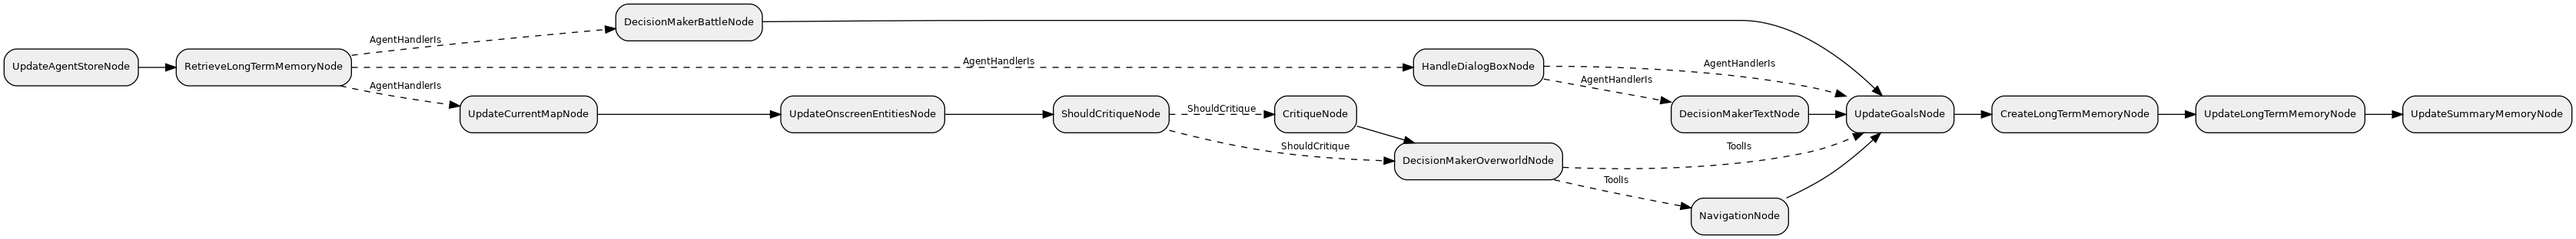
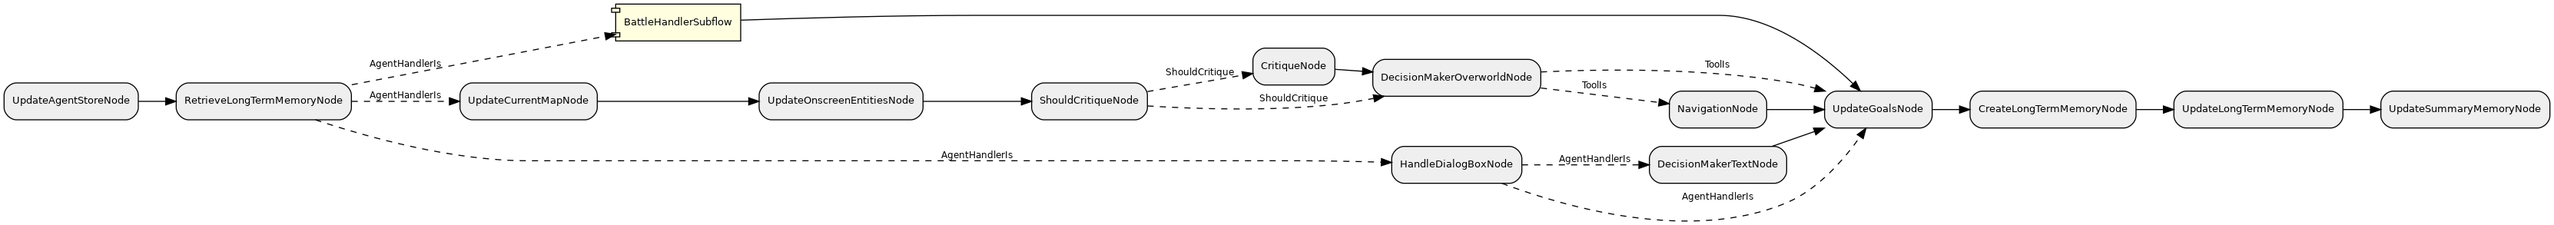
Viz

diff --git a/visualization/agent_graph/index.html b/visualization/agent_graph/index.html
@@ -5,4 +5,6 @@
 <h1>Junjo workflow diagrams</h1>
 <h2>Overview</h2>
 <img src="Graph.png" alt="Overview diagram">
+<h2>BattleHandlerSubflow</h2>
+<img src="subflow_hE3fPh3DjLzYN0jX6qijc.png" alt="BattleHandlerSubflow diagram">
 </body></html>

diff --git a/visualization/visualize.py b/visualization/visualize.py
@@ -5,7 +5,7 @@ from agent.graph import build_agent_graph
 
 
 def main() -> None:
-    """Visualize all the Burr graphs."""
+    """Visualize all the Junjo graphs."""
     graph = build_agent_graph(MagicMock())  # We don't need a real emulator to visualize the graph.
     out_dir = Path("visualization/agent_graph/")
     # PNG is preferable to SVG because we can directly visualize the diff in Git.
